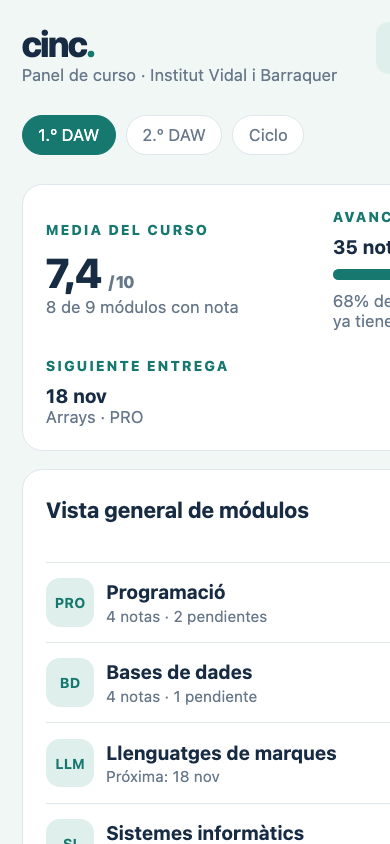
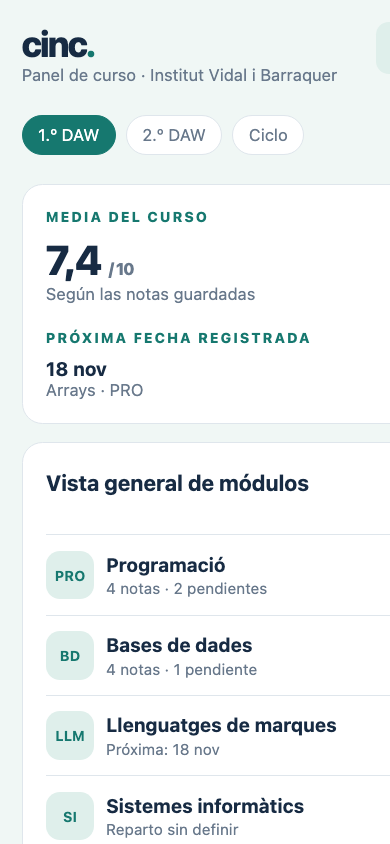
Quitar avance estimado del panel de curso

diff --git a/prototipos/c-panel.html b/prototipos/c-panel.html
@@ -1,6 +1,6 @@
 <!doctype html><html lang="es"><head><meta charset="utf-8"><meta name="viewport" content="width=device-width,initial-scale=1"><title>C · Panel de curso · Cinc</title><style>
 :root{--accent:#16786f;--bg:#f0f7f5;--surface:#fff;--ink:#172b43;--muted:#68788b;--line:#dfe6ec;--wash:#dfefeb;--pending:#946012;color-scheme:light dark}@media(prefers-color-scheme:dark){:root{--bg:#101923;--surface:#192531;--ink:#ecf2f7;--muted:#a6b4c1;--line:#334352;--wash:#243848;--pending:#edbd6c}}:root.claro{--bg:#f0f7f5;--surface:#fff;--ink:#172b43;--muted:#68788b;--line:#dfe6ec;--wash:#dfefeb;--pending:#946012}
 *{box-sizing:border-box}body{margin:0;background:var(--bg);color:var(--ink);font:15px -apple-system,BlinkMacSystemFont,"Segoe UI",sans-serif}.app{max-width:1300px;margin:auto;padding:26px}header{display:flex;align-items:center;justify-content:space-between;gap:16px;margin-bottom:24px}.logo{font-size:28px;font-weight:800;letter-spacing:-1.5px}.logo span{color:var(--accent)}.actions{display:flex;gap:8px}button{border:0;background:var(--accent);color:#fff;padding:11px 15px;border-radius:10px;font-weight:700;font-size:13px}button.alt{background:var(--wash);color:var(--accent)}.topline{display:flex;align-items:flex-end;justify-content:space-between;margin:0 0 17px}h1{font-size:30px;letter-spacing:-1px;margin:0}h2{font-size:17px;margin:0 0 14px}h3{font-size:15px;margin:0}p,small{color:var(--muted)}.tabs{display:flex;gap:8px;margin:12px 0 22px}.tabs span{padding:7px 12px;border-radius:20px;background:var(--surface);border:1px solid var(--line);color:var(--muted);font-size:13px}.tabs .on{background:var(--accent);color:#fff;border-color:var(--accent)}.panel{background:var(--surface);border:1px solid var(--line);border-radius:16px;padding:18px}.eyebrow{color:var(--accent);font-size:11px;font-weight:800;letter-spacing:1.4px;text-transform:uppercase;margin-bottom:8px}.score{font-size:32px;font-weight:800;letter-spacing:-1px}.muted{color:var(--muted);font-size:13px}.stats{display:flex;gap:12px}.stat{background:var(--wash);padding:13px;border-radius:12px;flex:1}.module{display:flex;align-items:center;gap:12px;padding:12px 0;border-top:1px solid var(--line)}.module>b{display:grid;place-items:center;width:38px;height:38px;border-radius:11px;background:var(--wash);color:var(--accent);font-size:11px}.module div{flex:1}.module small,.module strong{display:block}.module small{font-size:12px;margin-top:3px}.module em{font-style:normal;font-weight:800;font-size:18px}.module .pending,.pending{font-size:12px;color:var(--pending);font-weight:700}.detail-head{display:flex;align-items:center;justify-content:space-between;gap:10px;margin-bottom:13px}.notes{margin-top:12px}.note{display:flex;justify-content:space-between;gap:10px;padding:12px 0;border-top:1px solid var(--line)}.note b,.note small{display:block}.note small{font-size:12px;margin-top:4px}.note>strong{font-size:17px}.note.future>strong{font-size:12px;color:var(--pending)}form label{display:block;color:var(--muted);font-weight:700;font-size:12px;margin:10px 0}input,select{display:block;width:100%;padding:10px;margin-top:5px;border:1px solid var(--line);border-radius:9px;background:var(--bg);color:var(--ink);font:inherit}.fields{display:grid;grid-template-columns:1fr 1fr;gap:10px}.upcoming{display:flex;justify-content:space-between;gap:8px;padding:10px 0;border-top:1px solid var(--line)}.upcoming span:first-child b,.upcoming span:first-child small{display:block}.upcoming span:first-child small{margin-top:3px}
-.c .hero{display:grid;grid-template-columns:1.2fr 2fr 1fr;gap:20px;align-items:center}.c .hero-score{padding-left:22px;border-left:1px solid var(--line)}.c .columns{display:grid;grid-template-columns:1.25fr .75fr;gap:14px;margin-top:14px}.c .module-list{display:grid;grid-template-columns:1fr 1fr;column-gap:20px}.c .module{border-top:1px solid var(--line)}.c .module em{min-width:60px;text-align:right}.c .detail-panel{margin-top:14px}.c .notes{display:grid;grid-template-columns:repeat(2,1fr);gap:0 22px}.c .progress{height:8px;border-radius:8px;background:var(--line);margin:9px 0}.c .progress i{display:block;width:68%;height:100%;background:var(--accent);border-radius:8px}
-@media(max-width:760px){.app{padding:17px}header{align-items:flex-start;flex-wrap:wrap}.topline{align-items:flex-start;gap:12px}.stats{flex-wrap:wrap}.module{gap:9px}.c .hero{grid-template-columns:1fr 1fr}.c .hero-score{border:0;padding:0}.c .columns{grid-template-columns:1fr}.c .module-list{grid-template-columns:1fr}.c .notes{grid-template-columns:1fr}}
-</style></head><body><div class="app c"><header><div><div class="logo">cinc<span>.</span></div><div class="muted">Panel de curso · Institut Vidal i Barraquer</div></div><div class="actions"><button class="alt">Copia</button><button>＋ Evaluación</button></div></header><nav class="tabs"><span class="on">1.º DAW</span><span>2.º DAW</span><span>Ciclo</span></nav><section class="c"><div class="panel hero"><div><div class="eyebrow">Media del curso</div><div class="score">7,4 <small class="muted">/ 10</small></div><div class="muted">8 de 9 módulos con nota</div></div><div><div class="eyebrow">Avance de evaluación</div><b>35 notas registradas</b><div class="progress"><i></i></div><div class="muted">68% de las actividades previstas ya tienen nota</div></div><div class="hero-score"><div class="eyebrow">Siguiente entrega</div><b>18 nov</b><div class="muted">Arrays · PRO</div></div></div><div class="columns"><section class="panel"><div class="detail-head"><h2>Vista general de módulos</h2><button class="alt">＋ Añadir</button></div><div class="module-list"><div class="module"><b>PRO</b><div><strong>Programació</strong><small>4 notas · 2 pendientes</small></div><em>8,2</em></div><div class="module"><b>BD</b><div><strong>Bases de dades</strong><small>4 notas · 1 pendiente</small></div><em>7,6</em></div><div class="module"><b>LLM</b><div><strong>Llenguatges de marques</strong><small>Próxima: 18 nov</small></div><em>6,8</em></div><div class="module"><b>SI</b><div><strong>Sistemes informàtics</strong><small>Reparto sin definir</small></div><em class="pending">Pendiente</em></div></div></section><aside class="panel"><div class="eyebrow">Agenda cercana</div><h2>Próximas evaluaciones</h2><div class="upcoming"><span><b>18 nov</b><small>Programació · Arrays</small></span><span class="pending">Pendiente</span></div><div class="upcoming"><span><b>21 nov</b><small>Bases de dades · SQL</small></span><span class="pending">Pendiente</span></div><div class="upcoming"><span><b>26 nov</b><small>Llenguatges · Formularis</small></span><span class="pending">Pendiente</span></div></aside></div><section class="panel detail-panel"><div class="detail-head"><div><div class="eyebrow">Módulo seleccionado</div><h2>Programació · PRO <span class="muted">8,2</span></h2></div><button class="alt">＋ Añadir nota</button></div><div class="notes"><div class="note"><span><b>Examen · Variables i control</b><small>22 oct · 30% del bloque</small></span><strong>8,5</strong></div><div class="note"><span><b>Práctica · Calculadora</b><small>28 oct · 40% del bloque</small></span><strong>9,0</strong></div><div class="note"><span><b>Examen · Funcions</b><small>5 nov · 30% del bloque</small></span><strong>7,2</strong></div><div class="note future"><span><b>Práctica · Arrays</b><small>18 nov · Actividad</small></span><strong>Pendiente</strong></div></div></section></section></div><script>if(location.hash==="#claro")document.documentElement.classList.add("claro")</script></body></html>
+.c .hero{display:grid;grid-template-columns:1fr 1fr;gap:20px;align-items:center}.c .hero-score{padding-left:22px;border-left:1px solid var(--line)}.c .columns{display:grid;grid-template-columns:1.25fr .75fr;gap:14px;margin-top:14px}.c .module-list{display:grid;grid-template-columns:1fr 1fr;column-gap:20px}.c .module{border-top:1px solid var(--line)}.c .module em{min-width:60px;text-align:right}.c .detail-panel{margin-top:14px}.c .notes{display:grid;grid-template-columns:repeat(2,1fr);gap:0 22px}
+@media(max-width:760px){.app{padding:17px}header{align-items:flex-start;flex-wrap:wrap}.topline{align-items:flex-start;gap:12px}.stats{flex-wrap:wrap}.module{gap:9px}.c .hero{grid-template-columns:1fr}.c .hero-score{border:0;padding:0}.c .columns{grid-template-columns:1fr}.c .module-list{grid-template-columns:1fr}.c .notes{grid-template-columns:1fr}}
+</style></head><body><div class="app c"><header><div><div class="logo">cinc<span>.</span></div><div class="muted">Panel de curso · Institut Vidal i Barraquer</div></div><div class="actions"><button class="alt">Copia</button><button>＋ Evaluación</button></div></header><nav class="tabs"><span class="on">1.º DAW</span><span>2.º DAW</span><span>Ciclo</span></nav><section class="c"><div class="panel hero"><div><div class="eyebrow">Media del curso</div><div class="score">7,4 <small class="muted">/ 10</small></div><div class="muted">Según las notas guardadas</div></div><div class="hero-score"><div class="eyebrow">Próxima fecha registrada</div><b>18 nov</b><div class="muted">Arrays · PRO</div></div></div><div class="columns"><section class="panel"><div class="detail-head"><h2>Vista general de módulos</h2><button class="alt">＋ Añadir</button></div><div class="module-list"><div class="module"><b>PRO</b><div><strong>Programació</strong><small>4 notas · 2 pendientes</small></div><em>8,2</em></div><div class="module"><b>BD</b><div><strong>Bases de dades</strong><small>4 notas · 1 pendiente</small></div><em>7,6</em></div><div class="module"><b>LLM</b><div><strong>Llenguatges de marques</strong><small>Próxima: 18 nov</small></div><em>6,8</em></div><div class="module"><b>SI</b><div><strong>Sistemes informàtics</strong><small>Reparto sin definir</small></div><em class="pending">Pendiente</em></div></div></section><aside class="panel"><div class="eyebrow">Agenda cercana</div><h2>Próximas evaluaciones</h2><div class="upcoming"><span><b>18 nov</b><small>Programació · Arrays</small></span><span class="pending">Pendiente</span></div><div class="upcoming"><span><b>21 nov</b><small>Bases de dades · SQL</small></span><span class="pending">Pendiente</span></div><div class="upcoming"><span><b>26 nov</b><small>Llenguatges · Formularis</small></span><span class="pending">Pendiente</span></div></aside></div><section class="panel detail-panel"><div class="detail-head"><div><div class="eyebrow">Módulo seleccionado</div><h2>Programació · PRO <span class="muted">8,2</span></h2></div><button class="alt">＋ Añadir nota</button></div><div class="notes"><div class="note"><span><b>Examen · Variables i control</b><small>22 oct · 30% del bloque</small></span><strong>8,5</strong></div><div class="note"><span><b>Práctica · Calculadora</b><small>28 oct · 40% del bloque</small></span><strong>9,0</strong></div><div class="note"><span><b>Examen · Funcions</b><small>5 nov · 30% del bloque</small></span><strong>7,2</strong></div><div class="note future"><span><b>Práctica · Arrays</b><small>18 nov · Actividad</small></span><strong>Pendiente</strong></div></div></section></section></div><script>if(location.hash==="#claro")document.documentElement.classList.add("claro")</script></body></html>

diff --git a/prototipos/README.md b/prototipos/README.md
@@ -4,7 +4,7 @@ Las tres opciones proponen distribuciones y recorridos distintos, con datos de e
 
 - **A · Distribución familiar** (`a-calma.html`): conserva el orden reconocible de Cinc: cabecera y cursos, resumen, módulos en cuadrícula y después el detalle. En escritorio, el detalle y el alta quedan juntos al final; en móvil se apilan.
 - **B · Módulo al centro** (`b-cuaderno.html`): convierte la vista en un espacio de trabajo de tres zonas: módulos a la izquierda, notas en el centro y registro rápido a la derecha. En móvil esas zonas se apilan para navegar módulo por módulo.
-- **C · Panel de curso** (`c-panel.html`): pone primero los indicadores y la próxima entrega, después compara los módulos junto a la agenda y deja el detalle completo al pie. Está pensado para revisar el curso de un vistazo.
+- **C · Panel de curso** (`c-panel.html`): pone la media calculada con las notas guardadas y la próxima fecha registrada arriba; después compara los módulos junto a la agenda y deja el detalle completo al pie. No estima qué parte del curso está evaluada.
 
 ## Capturas
 

diff --git a/REGISTRO.md b/REGISTRO.md
@@ -2,9 +2,11 @@
 
 ## Pendiente
 
-- [Cinc.] Revisar las tres distribuciones nuevas y elegir una para aplicar a la app real · empezada por Codex · 2026-11-09
+- [Cinc.] Revisar la propuesta C ajustada y confirmar si se aplica a la app real · empezada por Codex · 2026-11-09
 
 ## Historial
+
+2026-11-09 23:32 · Codex · Cinc. · Pedido: quitar de la propuesta C el avance estimado de evaluación porque las pruebas aún no están todas registradas · Hecho: eliminado el porcentaje y reorganizada la cabecera para mostrar solo la media según las notas guardadas y la próxima fecha registrada; capturas y documentación actualizadas · Pendiente: Cristian revisa la propuesta C ajustada y confirma si quiere aplicarla
 
 2026-11-09 23:32 · Codex · Cinc. · Pedido: revisar los prototipos porque eran la misma distribución con distinto color · Hecho: rehice las tres composiciones (familiar, módulos en lateral y panel de curso), actualicé las capturas y documenté sus diferencias · Pendiente: Cristian revisa las nuevas distribuciones y elige una
 

diff --git a/CONTEXTO.md b/CONTEXTO.md
@@ -47,7 +47,7 @@ Publicada en GitHub Pages: https://cristianvalentinmazilumoya.github.io/Cinc./
 
 - La app funciona y está publicada; sincroniza entre Mac e iPhone.
 - 35 notas en 9 módulos de 1.º, todas con fecha.
-- Prototipos del rediseño listos en `prototipos/`: tres distribuciones distintas con capturas en claro/oscuro y móvil/escritorio (familiar, módulos en lateral y panel de curso). Falta que Cristian elija una para aplicar el diseño a la app real.
+- Prototipos del rediseño listos en `prototipos/`: tres distribuciones distintas con capturas en claro/oscuro y móvil/escritorio (familiar, módulos en lateral y panel de curso). La propuesta C se ajustó para no mostrar un porcentaje de avance del curso, ya que las fechas y evaluaciones aún no registradas impiden dar una cifra fiable. Falta que Cristian elija una para aplicar el diseño a la app real.
 
 ## Encargo completado: prototipos de rediseño
 
